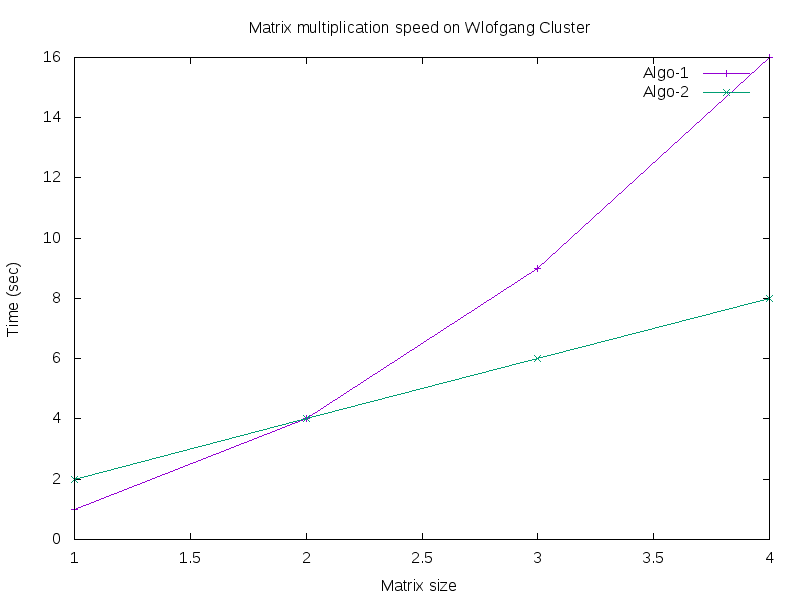
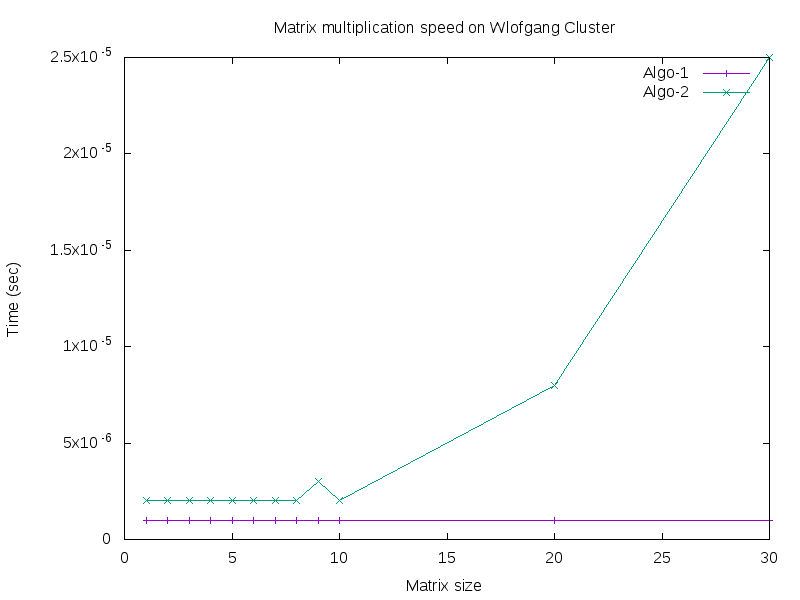
graphs completed

diff --git a/withoutpar.c b/withoutpar.c
@@ -31,13 +31,10 @@ int main()
   struct timespec start;
   struct timespec end;
   double time;
-  int mat1[N][N] = { {1, 1, 1},
-    {2, 2, 2},
-    {3, 3, 3}};
-  
-  int mat2[N][N] = { {1, 1, 1},
-    {2, 2, 2},
-    {3, 3, 3}};
+  int mat1[N][N] =
+{{1,2,3,4,5,6,7,8,9,10,11,12,13,14,15,16,17,18,19,20},{1,2,3,4,5,6,7,8,9,10,11,12,13,14,15,16,17,18,19,20},{1,2,3,4,5,6,7,8,9,10,11,12,13,14,15,16,17,18,19,20},{1,2,3,4,5,6,7,8,9,10,11,12,13,14,15,16,17,18,19,20},{1,2,3,4,5,6,7,8,9,10,11,12,13,14,15,16,17,18,19,20},{1,2,3,4,5,6,7,8,9,10,11,12,13,14,15,16,17,18,19,20},{1,2,3,4,5,6,7,8,9,10,11,12,13,14,15,16,17,18,19,20},{1,2,3,4,5,6,7,8,9,10,11,12,13,14,15,16,17,18,19,20},{1,2,3,4,5,6,7,8,9,10,11,12,13,14,15,16,17,18,19,20},{1,2,3,4,5,6,7,8,9,10,11,12,13,14,15,16,17,18,19,20},{1,2,3,4,5,6,7,8,9,10,11,12,13,14,15,16,17,18,19,20},{1,2,3,4,5,6,7,8,9,10,11,12,13,14,15,16,17,18,19,20},{1,2,3,4,5,6,7,8,9,10,11,12,13,14,15,16,17,18,19,20},{1,2,3,4,5,6,7,8,9,10,11,12,13,14,15,16,17,18,19,20},{1,2,3,4,5,6,7,8,9,10,11,12,13,14,15,16,17,18,19,20},{1,2,3,4,5,6,7,8,9,10,11,12,13,14,15,16,17,18,19,20},{1,2,3,4,5,6,7,8,9,10,11,12,13,14,15,16,17,18,19,20},{1,2,3,4,5,6,7,8,9,10,11,12,13,14,15,16,17,18,19,20},{1,2,3,4,5,6,7,8,9,10,11,12,13,14,15,16,17,18,19,20},{1,2,3,4,5,6,7,8,9,10,11,12,13,14,15,16,17,18,19,20},{1,2,3,4,5,6,7,8,9,10,11,12,13,14,15,16,17,18,19,20},}; 
+  int mat2[N][N] = 
+{{1,2,3,4,5,6,7,8,9,10,11,12,13,14,15,16,17,18,19,20},{1,2,3,4,5,6,7,8,9,10,11,12,13,14,15,16,17,18,19,20},{1,2,3,4,5,6,7,8,9,10,11,12,13,14,15,16,17,18,19,20},{1,2,3,4,5,6,7,8,9,10,11,12,13,14,15,16,17,18,19,20},{1,2,3,4,5,6,7,8,9,10,11,12,13,14,15,16,17,18,19,20},{1,2,3,4,5,6,7,8,9,10,11,12,13,14,15,16,17,18,19,20},{1,2,3,4,5,6,7,8,9,10,11,12,13,14,15,16,17,18,19,20},{1,2,3,4,5,6,7,8,9,10,11,12,13,14,15,16,17,18,19,20},{1,2,3,4,5,6,7,8,9,10,11,12,13,14,15,16,17,18,19,20},{1,2,3,4,5,6,7,8,9,10,11,12,13,14,15,16,17,18,19,20},{1,2,3,4,5,6,7,8,9,10,11,12,13,14,15,16,17,18,19,20},{1,2,3,4,5,6,7,8,9,10,11,12,13,14,15,16,17,18,19,20},{1,2,3,4,5,6,7,8,9,10,11,12,13,14,15,16,17,18,19,20},{1,2,3,4,5,6,7,8,9,10,11,12,13,14,15,16,17,18,19,20},{1,2,3,4,5,6,7,8,9,10,11,12,13,14,15,16,17,18,19,20},{1,2,3,4,5,6,7,8,9,10,11,12,13,14,15,16,17,18,19,20},{1,2,3,4,5,6,7,8,9,10,11,12,13,14,15,16,17,18,19,20},{1,2,3,4,5,6,7,8,9,10,11,12,13,14,15,16,17,18,19,20},{1,2,3,4,5,6,7,8,9,10,11,12,13,14,15,16,17,18,19,20},{1,2,3,4,5,6,7,8,9,10,11,12,13,14,15,16,17,18,19,20},{1,2,3,4,5,6,7,8,9,10,11,12,13,14,15,16,17,18,19,20},};
   
   int res[N][N]; // To store result
   int i, j;

diff --git a/mmult_mpi_omp.c b/mmult_mpi_omp.c
@@ -175,8 +175,8 @@ int main(int argc, char* argv[])
           printf("A: %dx%d\tB: %dx%d", row1, cols1, rows2, cols2);
         }
         
-        produceMatrix(aa, row1, cols1);
-        produceMatrix(bb, rows2, cols2);
+       // produceMatrix(aa, row1, cols1);
+       // produceMatrix(bb, rows2, cols2);
       }
       
       nrows = row1;
